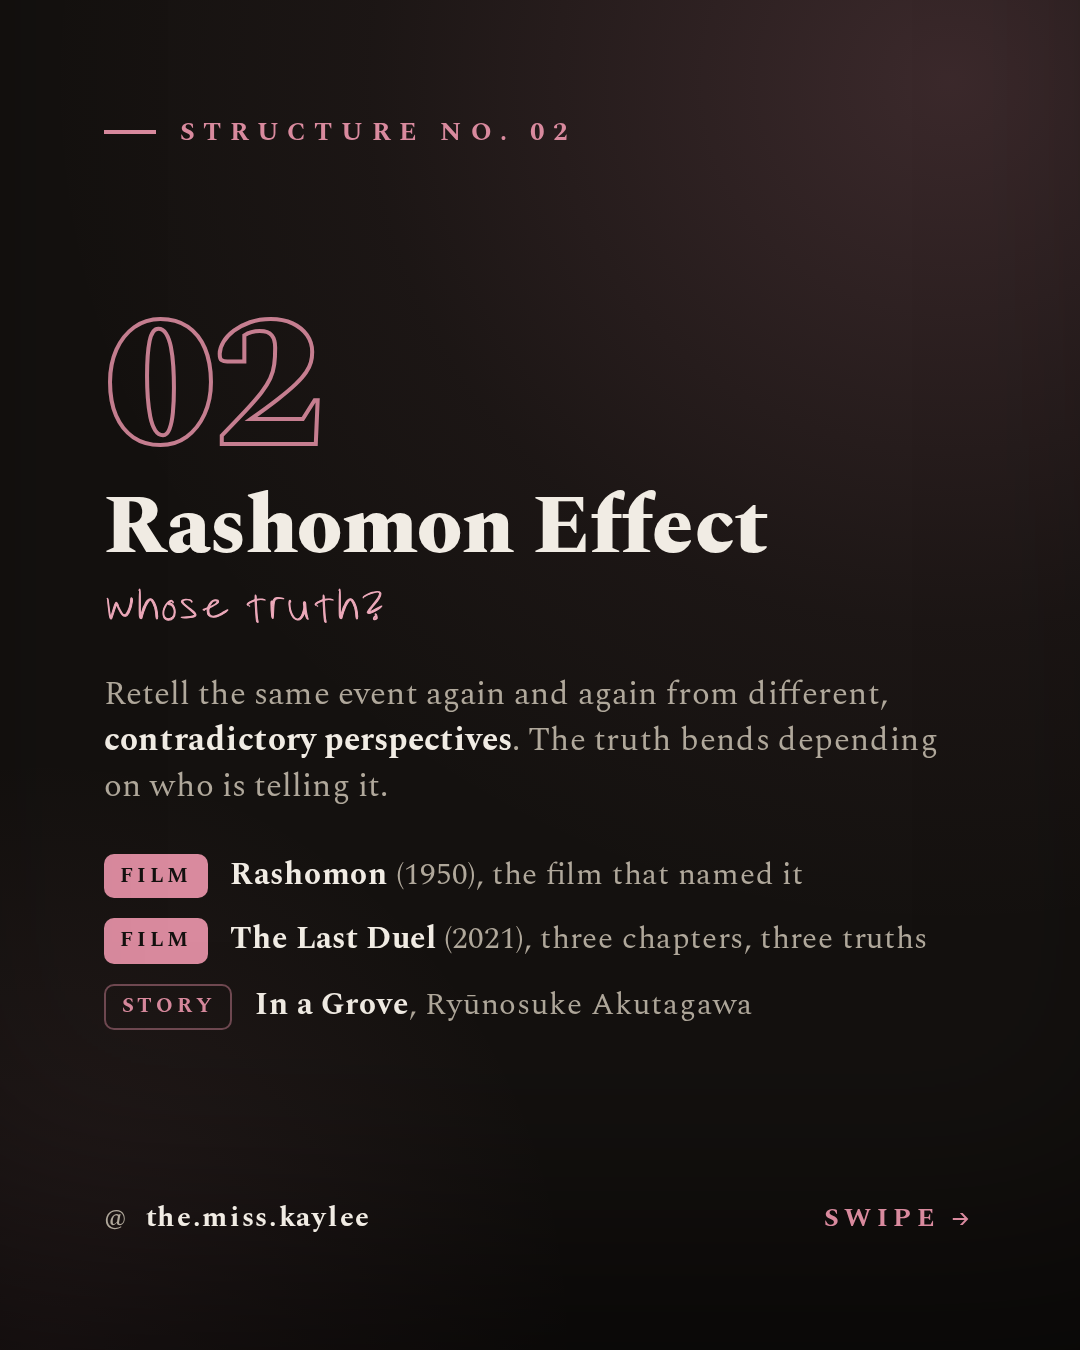
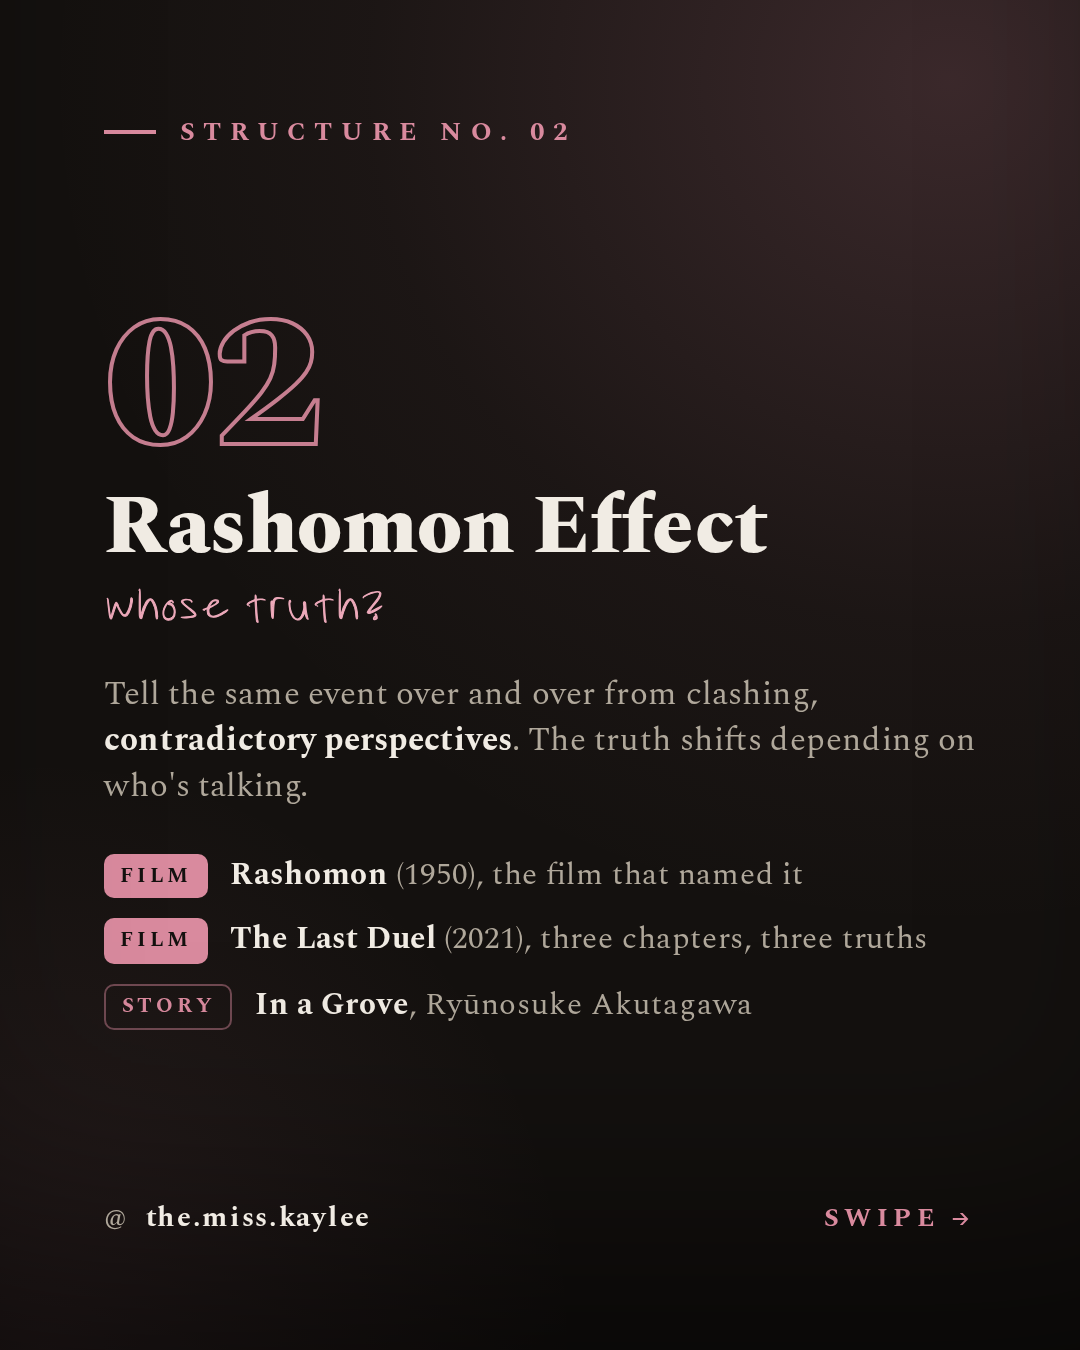
Post 2 reframe: three-act cover title, follow-card closer, humanized copy
- Cover title -> 'The three-act structure isn't the only way to write...'
  with 'non-western storytelling' as handwritten subtitle
- Subline -> 'Here are three alternative structures for telling your story'
- Replace quote takeaway with a solid 'Follow me for more writing tips!' card
- Loosen stiff phrasing in the three definitions

Changed region(s): [[0.0917, 0.4978, 0.8861, 0.56], [0.0917, 0.56, 0.3361, 0.5911]]

diff --git a/scripts/ig-carousel/carousel.css b/scripts/ig-carousel/carousel.css
@@ -60,6 +60,24 @@ html,body{background:#2a2622;-webkit-font-smoothing:antialiased;}
   letter-spacing:0.01em;margin:14px 0 0 -2px;display:block;}
 .cover .sub{font-size:19px;line-height:1.5;color:var(--ink-soft);
   max-width:430px;margin-top:26px;}
+/* longer cover title (Post 2) — scoped so Post 1 is untouched */
+.cover .headline.long{font-size:42px;line-height:1.08;letter-spacing:-0.01em;}
+.cover .flourish.small{font-size:36px;line-height:1;margin-top:16px;}
+
+/* ===== CTA / FOLLOW closer ============================================== */
+.cta .main{align-items:center;text-align:center;justify-content:center;}
+.cta .pf{width:112px;height:112px;border-radius:50%;object-fit:cover;object-position:50% 22%;
+  border:1.5px solid color-mix(in srgb,var(--accent) 55%,transparent);
+  box-shadow:0 0 0 5px rgba(217,138,158,0.08);margin-bottom:24px;}
+.cta .big{font-family:'Spectral';font-weight:800;font-size:44px;line-height:1.04;
+  letter-spacing:-0.01em;color:var(--ink);}
+.cta .script-lg{font-family:'Kaylee Script',cursive;color:var(--rose);
+  -webkit-text-stroke:0.8px var(--rose);font-size:82px;line-height:0.86;margin-top:6px;}
+.cta .rule{width:52px;height:1.5px;margin:26px 0 18px;
+  background:linear-gradient(90deg,transparent,var(--accent) 20%,var(--accent) 80%,transparent);}
+.cta .contact{font-size:18px;letter-spacing:0.02em;color:var(--ink-soft);}
+.cta .contact b{color:var(--ink);font-weight:600;}
+.cta .contact .dot{color:var(--accent);}
 .cover .sub b{color:var(--rose);font-weight:600;}
 
 /* ===== LAYOUT B — NUMBERED CONCEPT ====================================== */

diff --git a/scripts/ig-carousel/p2-04-johakyu.html b/scripts/ig-carousel/p2-04-johakyu.html
@@ -7,7 +7,7 @@
     <div class="num">03</div>
     <div class="name">Jo-ha-kyū</div>
     <div class="tag">slow swell to crash</div>
-    <p class="def">Driven by <b>rhythm, not conflict</b>. A slow, steady start builds speed to a sudden finish. Like a wave: a slow swell (Jo), a rising surge (Ha), then it crashes and falls still (Kyū).</p>
+    <p class="def">It runs on <b>rhythm, not conflict</b>. A slow, steady start picks up speed to a sudden finish. Think of a wave: a slow swell (Jo), a rising surge (Ha), then it crashes and falls still (Kyū).</p>
     <div class="ex">
       <div class="exrow"><span class="extag">Film</span><span class="extxt"><b>Seven Samurai</b> (1954), Kurosawa's own rhythm</span></div>
       <div class="exrow"><span class="extag">Film</span><span class="extxt"><b>Whiplash</b> (2014), tempo racing to a sudden stop</span></div>

diff --git a/scripts/ig-carousel/p2-02-kishotenketsu.html b/scripts/ig-carousel/p2-02-kishotenketsu.html
@@ -7,7 +7,7 @@
     <div class="num">01</div>
     <div class="name">Kishōtenketsu</div>
     <div class="tag">twist over conflict</div>
-    <p class="def">Four acts: introduction, development, twist, then conclusion. <b>No conflict required</b>. It runs on contrast and change. Common in manga, short stories, and poetry.</p>
+    <p class="def">Four acts: intro, development, twist, conclusion. <b>No conflict needed</b>. It runs on contrast and change instead, and you see it all over manga, short stories, and poetry.</p>
     <div class="ex">
       <div class="exrow"><span class="extag">Film</span><span class="extxt"><b>My Neighbor Totoro</b> (1988), gentle and plot-light</span></div>
       <div class="exrow"><span class="extag">Film</span><span class="extxt"><b>Kiki's Delivery Service</b> (1989), growth without a villain</span></div>

diff --git a/scripts/ig-carousel/p2-01-cover.html b/scripts/ig-carousel/p2-01-cover.html
@@ -4,9 +4,9 @@
 <div class="slide cover" data-ref="slide-cover">
   <div class="kicker">Storytelling &nbsp;·&nbsp; Part 2</div>
   <div class="main">
-    <div class="headline">The West isn't the <span class="em">only</span> way to tell a story</div>
-    <span class="flourish">the ones<br>film school skips</span>
-    <p class="sub">Three non-western structures built on <b>rhythm, perspective, and contrast.</b></p>
+    <div class="headline long">The three-act structure isn't the only way to write, it's just the <span class="em">only way we're taught</span>…</div>
+    <span class="flourish small">non-western storytelling</span>
+    <p class="sub">Here are three alternative structures for telling your story.</p>
   </div>
   <div class="footer">
     <span class="handle">@<b>the.miss.kaylee</b></span>

diff --git a/scripts/ig-carousel/p2-03-rashomon.html b/scripts/ig-carousel/p2-03-rashomon.html
@@ -7,7 +7,7 @@
     <div class="num">02</div>
     <div class="name">Rashomon Effect</div>
     <div class="tag">whose truth?</div>
-    <p class="def">Retell the same event again and again from different, <b>contradictory perspectives</b>. The truth bends depending on who is telling it.</p>
+    <p class="def">Tell the same event over and over from clashing, <b>contradictory perspectives</b>. The truth shifts depending on who's talking.</p>
     <div class="ex">
       <div class="exrow"><span class="extag">Film</span><span class="extxt"><b>Rashomon</b> (1950), the film that named it</span></div>
       <div class="exrow"><span class="extag">Film</span><span class="extxt"><b>The Last Duel</b> (2021), three chapters, three truths</span></div>

diff --git a/scripts/ig-carousel/p2-05-follow.html b/scripts/ig-carousel/p2-05-follow.html
@@ -1,0 +1,13 @@
+<!doctype html><html><head><meta charset="utf-8">
+<link rel="stylesheet" href="carousel.css"></head>
+<body>
+<div class="slide cta" data-ref="slide-follow">
+  <div class="main">
+    <img class="pf" src="kaylee-headshot.jpg" alt="Kaylee Renaud">
+    <div class="big">Follow me for more</div>
+    <div class="script-lg">writing tips!</div>
+    <div class="rule"></div>
+    <div class="contact">@<b>the.miss.kaylee</b> &nbsp;<span class="dot">·</span>&nbsp; kayleerenaud<span class="dot">.</span>com</div>
+  </div>
+</div>
+</body></html>
